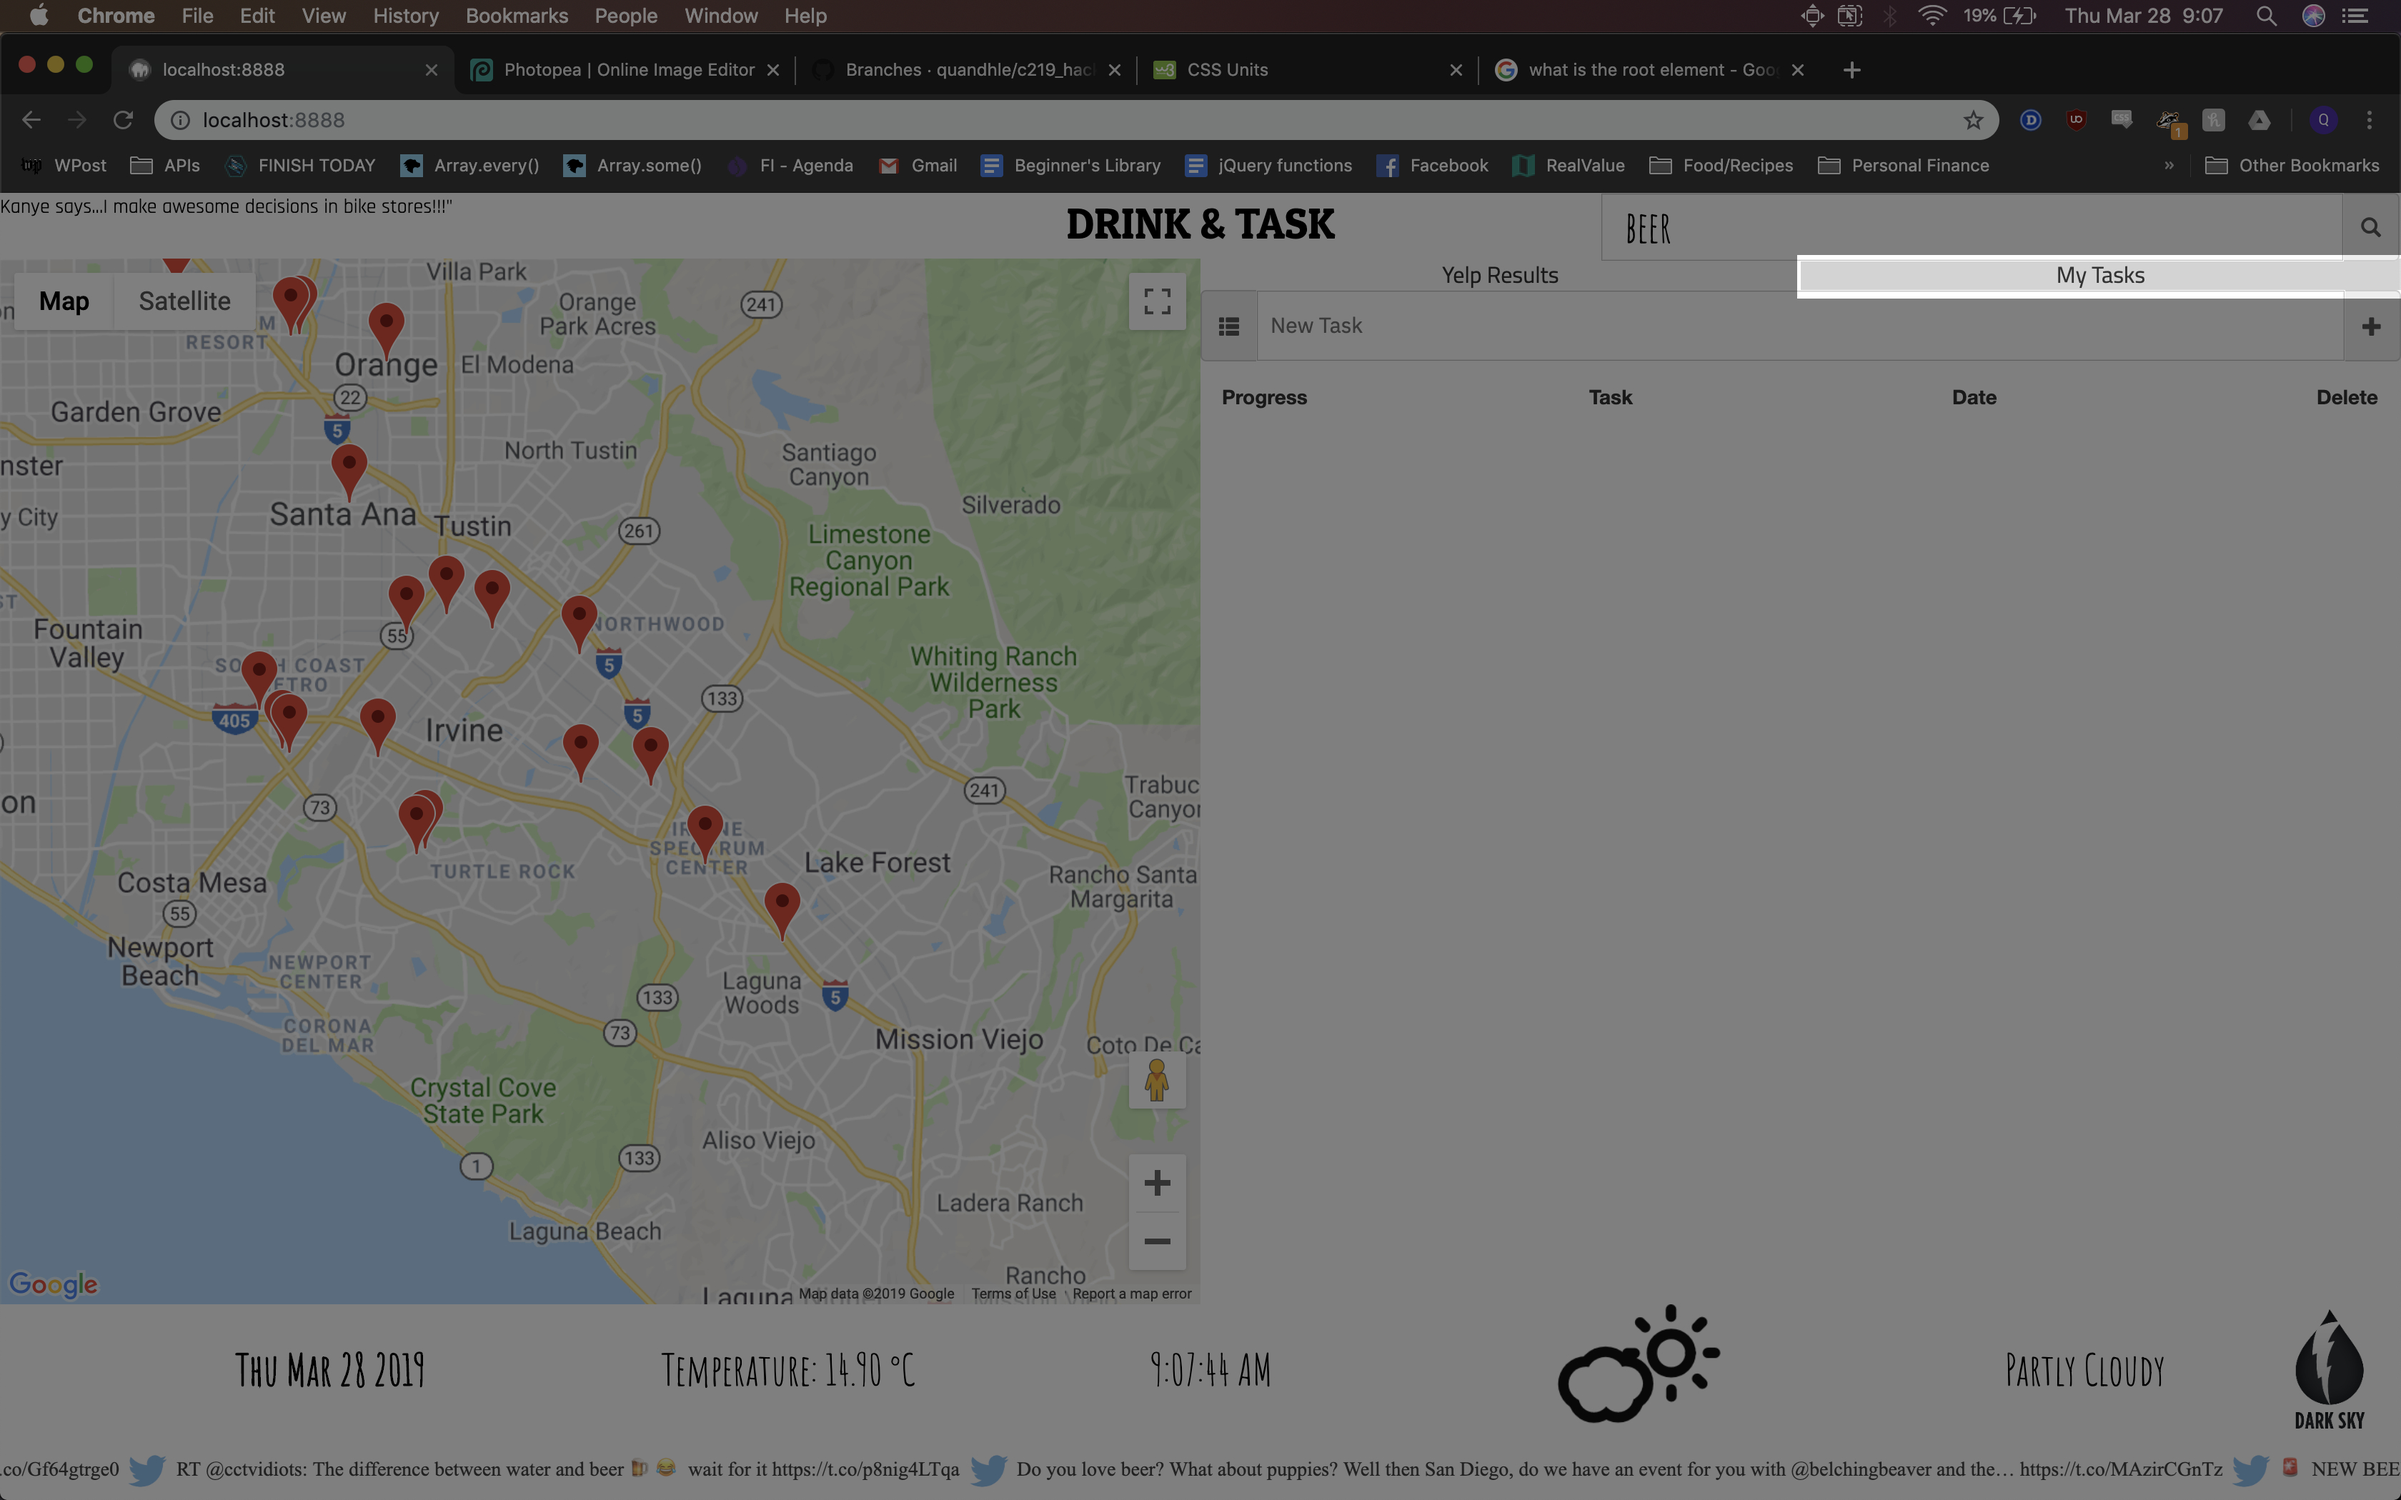
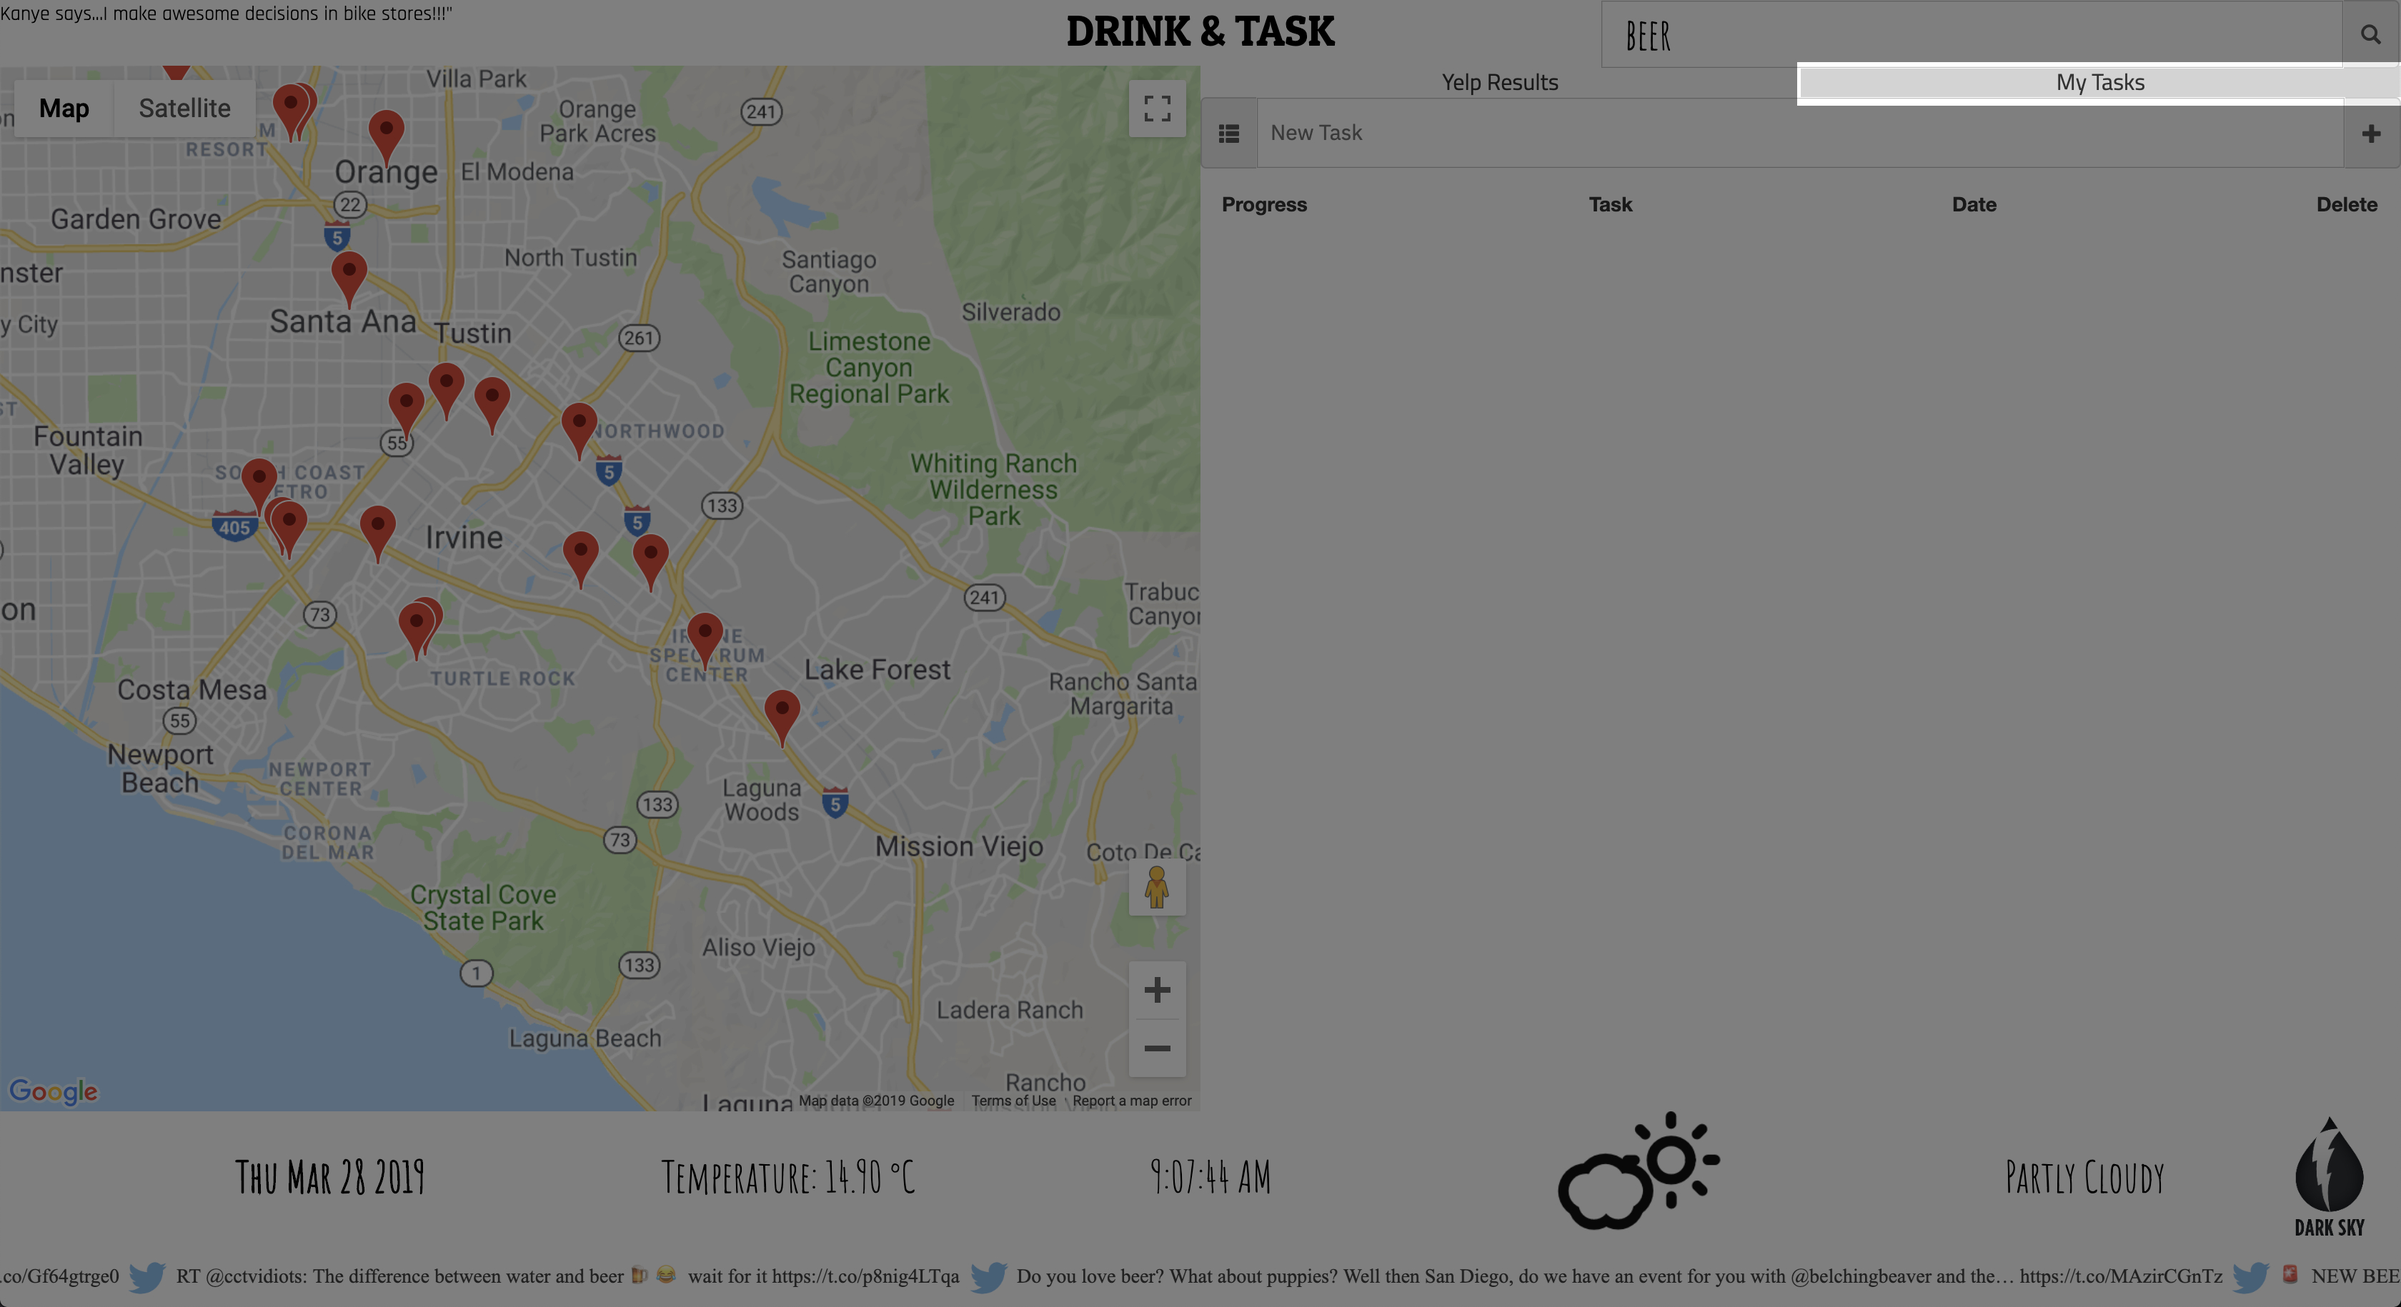
fine tuned walkthrough, can now search yelp by location, sets center every new yelp search

diff --git a/yelp.js b/yelp.js
@@ -1,19 +1,21 @@
 class YelpData {
-    constructor(search, mapCallbacks){
+    constructor(search, locationInput, mapCallbacks){
         this.results = null;
+        this.locationInput = locationInput;
         this.inputField = search;
         this.generateMarkerCallback = mapCallbacks.generateMarkerCallback;
         this.removeMarkersCallback = mapCallbacks.removeMarkersCallback;
         this.zoomToLocationCallback = mapCallbacks.zoomToLocationCallback;
+        this.setCenterCallback = mapCallbacks.setCenterCallback;
 
         this.handleYelpSuccess = this.handleYelpSuccess.bind(this);
         this.handleBusinessDataSuccess = this.handleBusinessDataSuccess.bind(this);
         this.handleYelpError = this.handleYelpError.bind(this);
 
-        this.getDataFromYelp();
+        this.getDataFromYelp(this.locationInput);
     }
 
-    getDataFromYelp(){
+    getDataFromYelp(location){
         $.ajax({
             url: 'yelp.php',
             dataType: 'json',
@@ -21,6 +23,7 @@ class YelpData {
             data: {
                 'apikey': 'dJbz7ePRpBcLEb3zCwg_1tAT3gLiUJKFoMm6EfhSjQZOrd_TJCBeypMPGz6YX5G9hN6tA3A0QQIqOG5c-Sx59kj5--M5xt5YCswAeIc0S4q5EBIbWAULDSiL90OQXHYx',
                 'term': this.inputField,
+                'location': location
             },
             success: this.handleYelpSuccess,
             error: (resp) => {
@@ -34,9 +37,7 @@ class YelpData {
         this.results = response;
 
         $('.rightContainer').removeClass('hide');
-
-        // yelp automatically returns results in irvine, set it so it only returns when input field is given
-        // is this needed?
+        
         $('#yelp').remove();
 
         var yelpDomElement = $("<div>").attr('id', 'yelp')
@@ -94,6 +95,8 @@ class YelpData {
             this.generateMarkerCallback(resultInfo);
         }
 
+        this.setCenterCallback(this.results.region.center);
+
         $('.leftContainer').removeClass('row col-xs-12 col-sm-12 col-md-12').addClass('row col-xs-6 col-sm-6 col-md-6');
 
         $('.tabsContainer').append(yelpDomElement);
@@ -117,7 +120,6 @@ class YelpData {
     }
 
     getBusinessData() {
-        debugger;
         console.log('div clicked');
         // $.ajax({
         //     url: 'yelpid.php',

diff --git a/main.js b/main.js
@@ -22,23 +22,25 @@ function clickHandler() {
     const mapCallbacks = {
         generateMarkerCallback: map.generateMarker,
         removeMarkersCallback: map.removeMarkers,
-        zoomToLocationCallback: map.zoomToLocation
+        zoomToLocationCallback: map.zoomToLocation,
+        setCenterCallback: map.setCenter
     }
 
     $('.searchContainer').on('keypress', function(e) {
-        const search = $('#locationInput').val();
+        var search = $('#searchInput').val().replace(' ', '_');
+        var locationInput = $('#locationInput').val().replace(' ', '_');
 
         if (e.keyCode === 13 && search !== "") {
-            yelpData = new YelpData (search, mapCallbacks);
+            yelpData = new YelpData (search, locationInput, mapCallbacks);
         }
     });
 
     $('.submitSearch').on('click', () => {
-        debugger;
-        const search = $('#locationInput').val();
+        var search = $('#searchInput').val().replace(' ', '_');
+        var locationInput = $('#locationInput').val().replace(' ', '_');
 
         if (search !== "") {
-            yelpData = new YelpData (search, mapCallbacks);
+            yelpData = new YelpData (search, locationInput, mapCallbacks);
         }
     });
 
@@ -57,7 +59,6 @@ function clickHandler() {
             $('ul li:nth-child(2)').addClass('active');
             $('#yelp').addClass('hide');
             $('ul li:nth-child(1)').removeClass('active');
-
         }
     })
 
@@ -80,7 +81,6 @@ function clickHandler() {
 
     // $('.fifth').on('click', function() {
     //     $('.fifth').fadeOut(250)
-
     // });
 
     $('.fifth').on('click', function() {

diff --git a/index.html b/index.html
@@ -38,8 +38,9 @@
             <div id="kanyeQuote"></div>
             <div class="drinkTitle">Drink & Task</div>
             <div class="searchContainer form-group input-group col-xs-4 col-lg-4">
-                <input type="text" placeholder="Search Yelp For Beer! (or anything)" class="col-xs-12 col-lg-12" id="locationInput">
-                <span class="input-group-addon addTask">
+                <input type="text" placeholder="Search Yelp For Beer! (or anything)" class="col-xs-6 col-lg-6" id="searchInput">
+                <input type="text" placeholder="Location" class="col-xs-6 col-lg-6" id="locationInput">
+                <span class="input-group-addon submitSearch">
                     <span class="glyphicon glyphicon glyphicon-search"></span>
                 </span>
             </div>

diff --git a/maps.js b/maps.js
@@ -24,6 +24,7 @@ class Maps {
         this.generateMarker = this.generateMarker.bind(this);
         this.removeMarkers = this.removeMarkers.bind(this);
         this.zoomToLocation = this.zoomToLocation.bind(this);
+        this.setCenter = this.setCenter.bind(this);
         // this.closeLastInfowindow = this.closeLastInfowindow.bind(this);
         // this.markerClickCallback = this.markerClickCallback.bind(this);
     }
@@ -102,5 +103,12 @@ class Maps {
         }
 
         map.lastResultClicked = infowindow;
+    }
+
+    setCenter(region) {        
+        this.map.setCenter({
+            lat: region.latitude,
+            lng: region.longitude
+        })
     }
 }

diff --git a/style.css b/style.css
@@ -53,7 +53,7 @@ body, .container, .leftContainer, #map, .rightContainer, ul,
     box-sizing: border-box;
 }
 
-#locationInput {
+#searchInput, #locationInput {
     font-family: 'Amatic SC', cursive;
     font-size: 3rem;
 }

diff --git a/yelp.php b/yelp.php
@@ -1,6 +1,6 @@
 
 <?php
-$proxyURL = "https://api.yelp.com/v3/businesses/search?location=irvine";
+$proxyURL = "https://api.yelp.com/v3/businesses/search?location=". $_GET['location'];
 $api_key = 'Authorization: Bearer ' . $_GET['apikey'];
 
 header("Access-Control-Allow-Origin: *");
